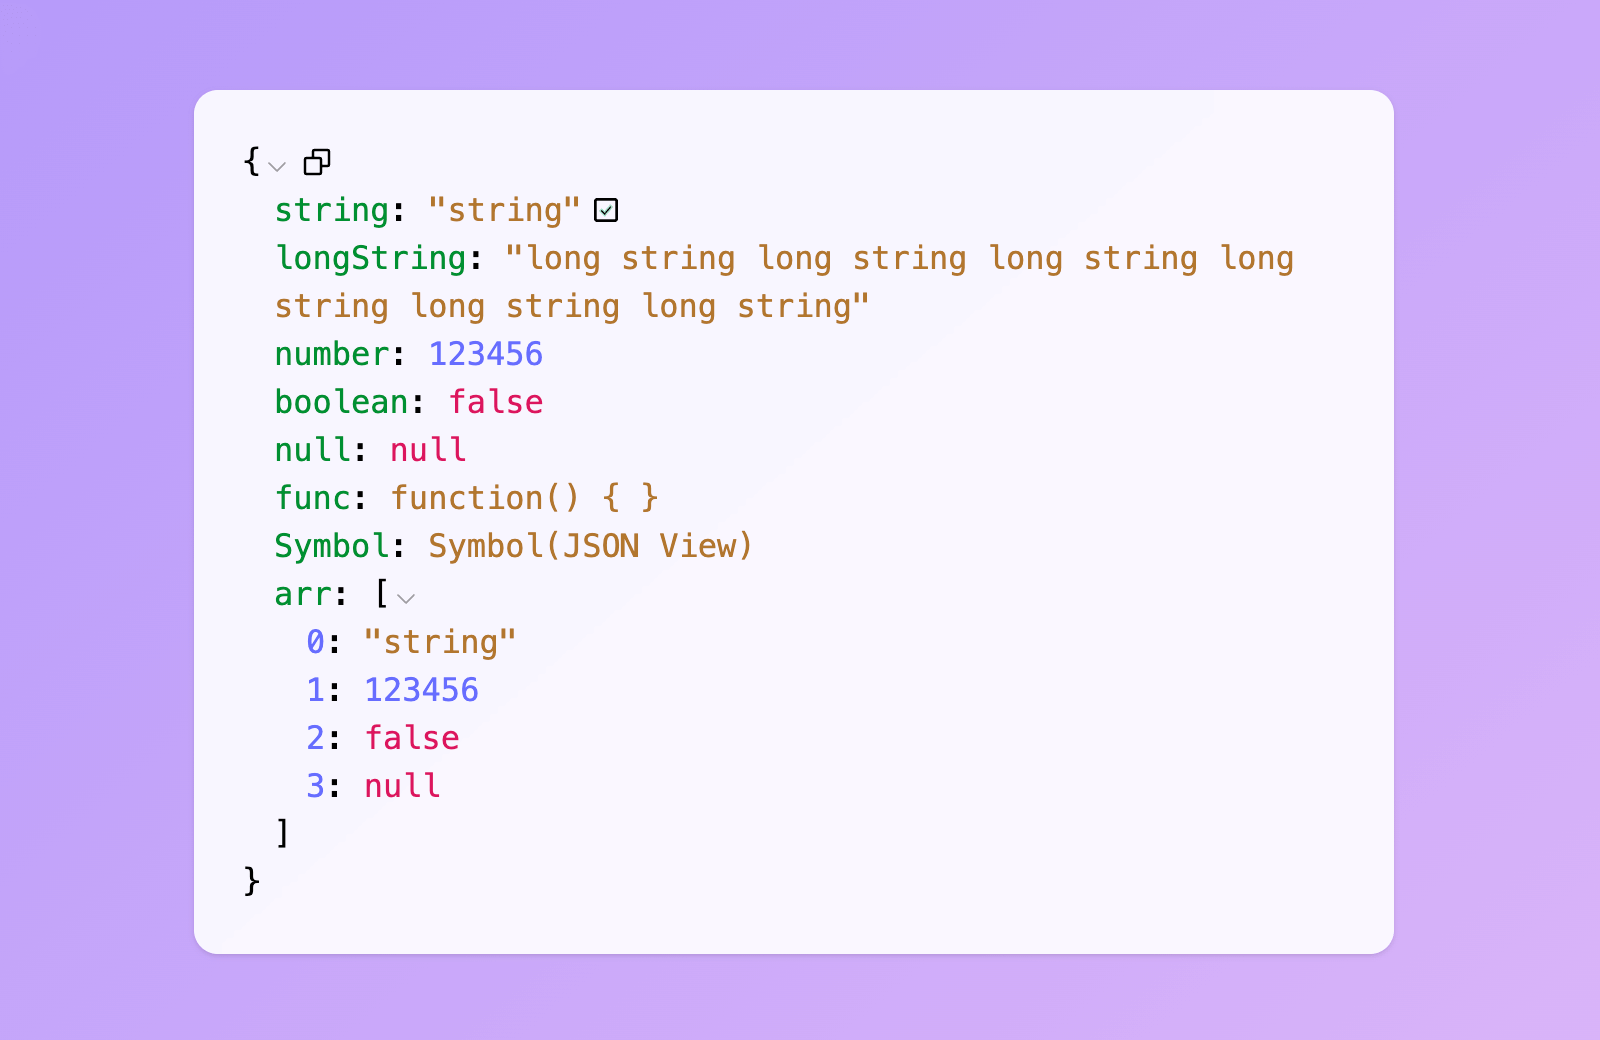
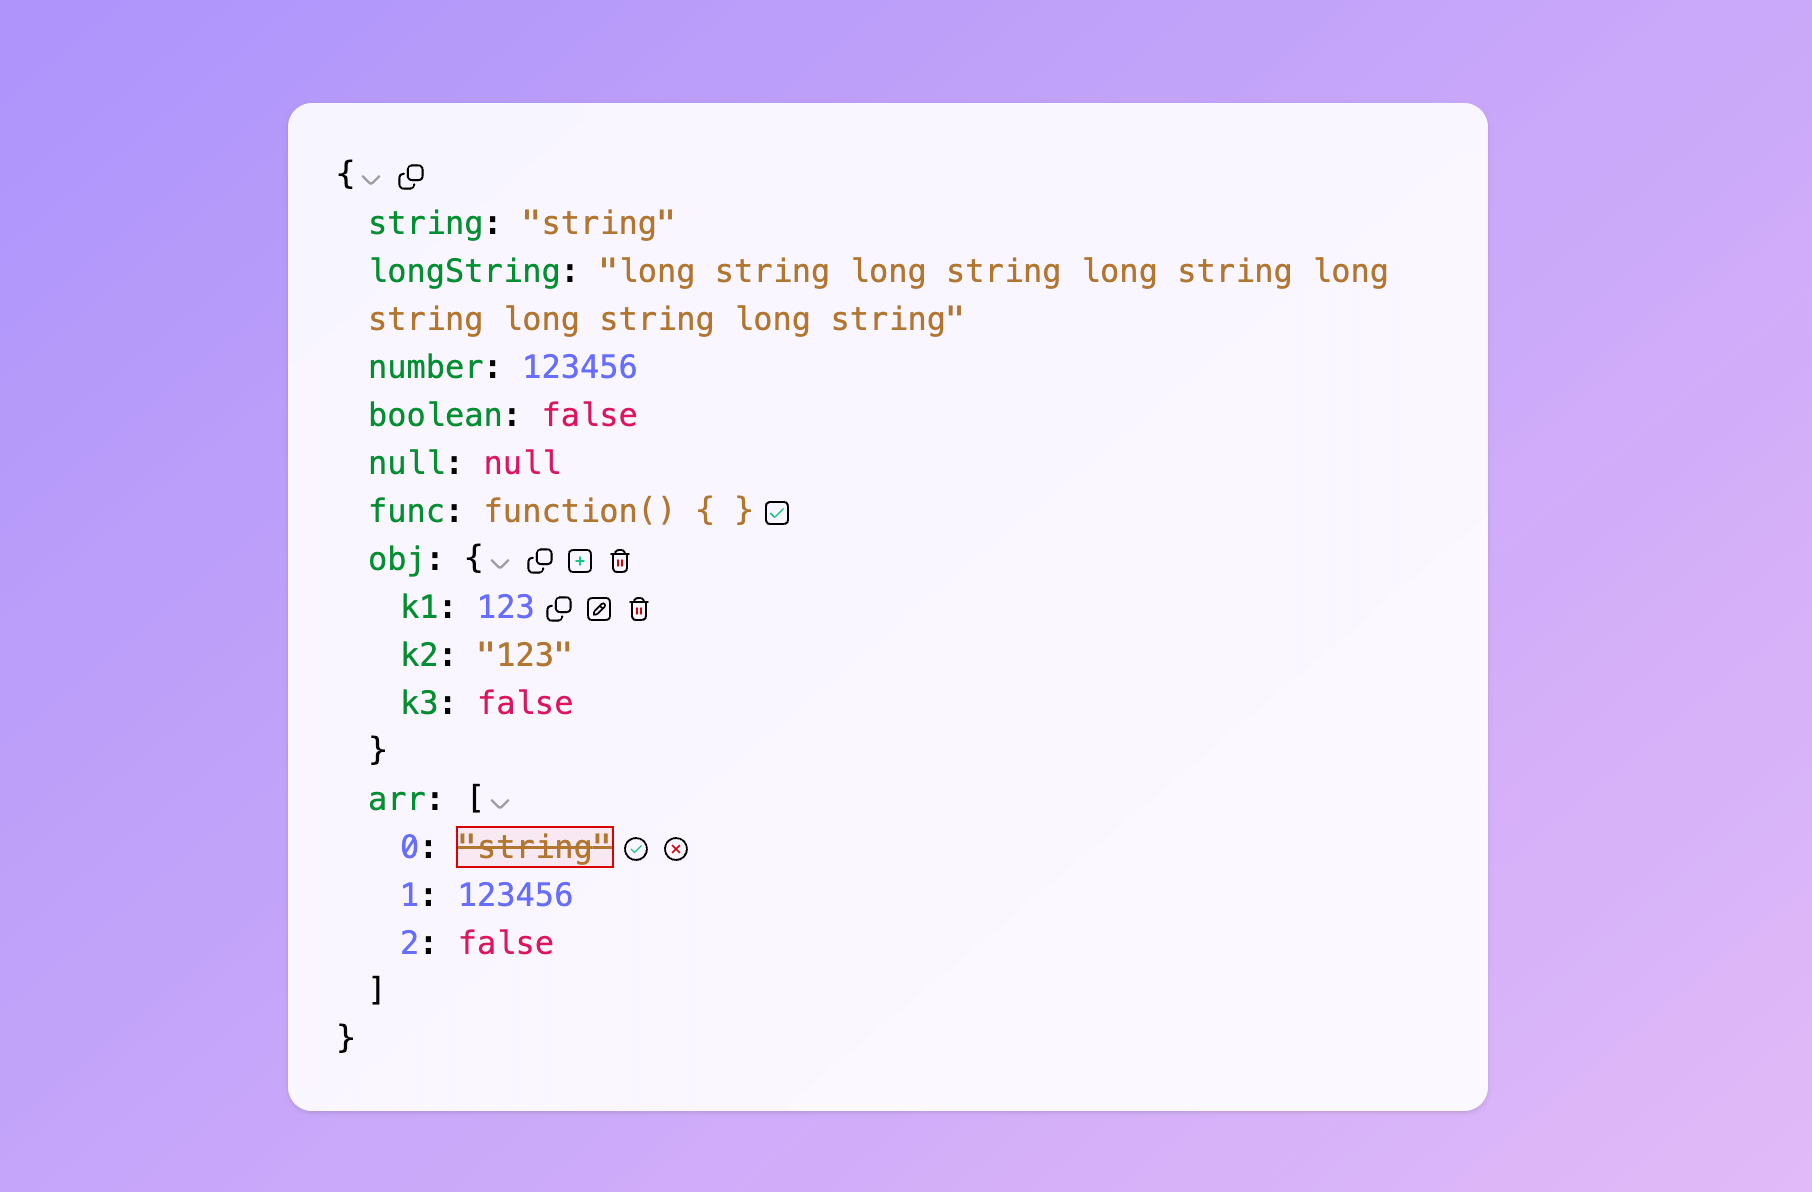
Update docs

Changed region(s): [[0.0938, 0.0615, 0.875, 0.9538], [0.4062, 0.4, 0.4375, 0.4615]]

diff --git a/src/stories/json-view.stories.tsx b/src/stories/json-view.stories.tsx
@@ -15,14 +15,14 @@ export default {
 		collapseStringsAfterLength: {
 			control: 'number',
 			description:
-				'When an integer value is assigned, strings will be cut off at that length. Collapsed strings are inserted by an ellipsis. String content can be expanded and collapsed by clicking on the string value.',
+				'When an integer value is assigned, strings longer than that length will be truncated and indicated by an ellipsis. To expand or collapse the string content, simply click on the string value.',
 			table: {
 				defaultValue: { summary: 99 }
 			}
 		},
 		collapseObjectsAfterLength: {
 			control: 'number',
-			description: 'When an integer value is assigned, the object and array will be collapsed initially.',
+			description: 'When an integer value is assigned, the object and array will initially collapse.',
 			table: {
 				defaultValue: { summary: 20 }
 			}
@@ -36,10 +36,39 @@ export default {
 		},
 		collapsed: {
 			description:
-				'When set to true, all nodes will be collapsed by default. Use an integer value to collapse at a particular depth.',
+				'When set to true, all nodes will be collapsed by default. Use an integer value to collapse at a specific depth.',
 			table: {
 				defaultValue: { summary: false }
 			}
+		},
+		editable: {
+			table: {
+				defaultValue: { summary: false }
+			},
+			description:
+				'When set to true, you can add, edit, or delete the property, and the actions will trigger onAdd, onEdit, or onDelete.'
+		},
+		onAdd: {
+			description: `(params: { indexOrName: string | number, depth: number, src: any; parentType: 'object' | 'array' }) => void`
+		},
+		onDelete: {
+			description: `(params: {
+				value: any,
+				indexOrName: string | number,
+				depth: number,
+				src: any,
+				parentType: 'object' | 'array'
+			}) => void`
+		},
+		onEdit: {
+			description: `(params: {
+				newValue: any,
+				oldValue: any,
+				depth: number,
+				src: any,
+				indexOrName: string | number,
+				parentType: 'object' | 'array'
+			}) => void`
 		}
 	},
 	decorators: [

diff --git a/src/stories/editable.stories.tsx b/src/stories/editable.stories.tsx
@@ -15,14 +15,14 @@ export default {
 		collapseStringsAfterLength: {
 			control: 'number',
 			description:
-				'When an integer value is assigned, strings will be cut off at that length. Collapsed strings are inserted by an ellipsis. String content can be expanded and collapsed by clicking on the string value.',
+				'When an integer value is assigned, strings longer than that length will be truncated and indicated by an ellipsis. To expand or collapse the string content, simply click on the string value.',
 			table: {
 				defaultValue: { summary: 99 }
 			}
 		},
 		collapseObjectsAfterLength: {
 			control: 'number',
-			description: 'When an integer value is assigned, the object and array will be collapsed initially.',
+			description: 'When an integer value is assigned, the object and array will initially collapse.',
 			table: {
 				defaultValue: { summary: 20 }
 			}
@@ -36,10 +36,39 @@ export default {
 		},
 		collapsed: {
 			description:
-				'When set to true, all nodes will be collapsed by default. Use an integer value to collapse at a particular depth.',
+				'When set to true, all nodes will be collapsed by default. Use an integer value to collapse at a specific depth.',
 			table: {
 				defaultValue: { summary: false }
 			}
+		},
+		editable: {
+			table: {
+				defaultValue: { summary: false }
+			},
+			description:
+				'When set to true, you can add, edit, or delete the property, and the actions will trigger onAdd, onEdit, or onDelete.'
+		},
+		onAdd: {
+			description: `(params: { indexOrName: string | number, depth: number, src: any; parentType: 'object' | 'array' }) => void`
+		},
+		onDelete: {
+			description: `(params: {
+				value: any,
+				indexOrName: string | number,
+				depth: number,
+				src: any,
+				parentType: 'object' | 'array',
+			}) => void`
+		},
+		onEdit: {
+			description: `(params: {
+				newValue: any,
+				oldValue: any,
+				depth: number,
+				src: any,
+				indexOrName: string | number,
+				parentType: 'object' | 'array',
+			}) => void`
 		}
 	},
 	args: {

diff --git a/src/style.css b/src/style.css
@@ -28,13 +28,7 @@
 	display: inline-block;
 }
 
-.json-view .json-view--copy {
-	display: none;
-	width: 1em;
-	height: 1em;
-	margin-left: 4px;
-	cursor: pointer;
-}
+.json-view .json-view--copy,
 .json-view .json-view--edit {
 	display: none;
 	width: 1em;
@@ -42,6 +36,7 @@
 	margin-left: 4px;
 	cursor: pointer;
 }
+
 .json-view .json-view--deleting {
 	outline: 1px solid #da0000;
 	background-color: #da000011;

diff --git a/README.md b/README.md
@@ -23,6 +23,8 @@ React function component for displaying javascript arrays and JSON objects.
 ## Installation
 ```bash
 npm i react18-json-view
+# or pnpm i react18-json-view
+# or yarn i react18-json-view
 ```
 
 ## Usage
@@ -34,27 +36,28 @@ import 'react18-json-view/src/style.css'
 ```
 
 ### Props
-Name|Type|Default|Description
-|:---|:---|:---|:---
-`src`|`JSON Object`|None|This property contains your input JSON
-`collapseStringsAfterLength`|`integer`|99|When an integer value is assigned, strings will be cut off at that length. Collapsed strings are inserted by an ellipsis. String content can be expanded and collapsed by clicking on the string value.
-`collapseObjectsAfterLength`|`integer`|20|When an integer value is assigned, the object and array will be collapsed initially.
-`enableClipboard`|`boolean`|true|When prop is not false, the user can copy objects and arrays to clipboard by clicking on the clipboard icon.
-`collapsed`|`boolean`/`integer`|false|When set to true, all nodes will be collapsed by default. Use an integer value to collapse at a particular depth.
+| Name                         | Type                | Default | Description                                                                                                                                                                                    |
+| :--------------------------- | :------------------ | :------ | :--------------------------------------------------------------------------------------------------------------------------------------------------------------------------------------------- |
+| `src`                        | `JSON Object`       | None    | This property contains your input JSON                                                                                                                                                         |
+| `collapseStringsAfterLength` | `integer`           | 99      | When an integer value is assigned, strings longer than that length will be truncated and indicated by an ellipsis. To expand or collapse the string content, simply click on the string value. |
+| `collapseObjectsAfterLength` | `integer`           | 20      | When an integer value is assigned, the object and array will initially collapse.                                                                                                               |
+| `enableClipboard`            | `boolean`           | true    | When `prop` is not `false`, users can copy objects and arrays to the clipboard by clicking on it.                                                                                              |
+| `collapsed`                  | `boolean`/`integer` | false   | When set to true, all nodes will be collapsed by default. Use an integer value to collapse at a specific depth.                                                                                |
+| `editable`                   | `boolean`           | false   | When set to true, you can add, edit, or delete the property, and the actions will trigger onAdd, onEdit, or onDelete.                                                                          |
+| `onAdd`                      | `function`          | -       | `(params: { indexOrName: string\| number, depth: number, src: any; parentType: 'object' \| 'array' }) => void`                                                                                 |
+| `onDelete`                   | `function`          | -       | `(params:{ value: any,indexOrName: string \| number,depth: number,src: any,parentType: 'object' \| 'array'}) => void`                                                                          |
+| `onEdit`                     | `function`          | -       | `(params: { newValue: any, oldValue: any, depth: number,	src: any, indexOrName: string \| number, parentType: 'object' \| 'array'}) => void`                                                   |
 
-## Why
-react-json-view does not support React 18.
+## Editable
 
-## Todo
-- [x] copy (enableClipboard)
-- [x] css
-- [x] collapse at a particular depth (collapsed)
-- [ ] editable
-  - [ ] add
-  - [x] edit
-  - [ ] delete
-  - [ ] onSelect
-- [ ] custom icon
+### How to generate object/array
+
+The editor uses eval(<input-value>). While in edit mode, you can enter ({}) or ([]), which will cause the result of eval to become a new object or array.
+
+### How the editor works
+
+This component does not perform any cloning operations, so every step of the operation is carried out on the original object. If cloning is required, please handle it yourself.
+
 
 ## Custom styles
 Here are all the style codes, you can freely change color variables, such as --json-property, or others.
@@ -67,58 +70,73 @@ Here are all the style codes, you can freely change color variables, such as --j
 	--json-boolean: #dc155e;
 	--json-null: #dc155e;
 }
-.json-view .json-view--property {
-	color: var(--json-property);
-}
-.json-view .json-view--index {
-	color: var(--json-index);
-}
-.json-view .json-view--number {
-	color: var(--json-number);
-}
-.json-view .json-view--string {
-	color: var(--json-string);
-}
-.json-view .json-view--boolean {
-	color: var(--json-boolean);
-}
-.json-view .json-view--null {
-	color: var(--json-null);
-}
-.json-view:hover > .json-view--copy {
-	display: inline-block;
-}
-.json-view .json-view--pair:hover > .json-view--copy {
-	display: inline-block;
-}
-.json-view .json-view--copy {
+.json-view .json-view--property {	color: var(--json-property); }
+.json-view .json-view--index { color: var(--json-index); }
+.json-view .json-view--number {	color: var(--json-number); }
+.json-view .json-view--string {	color: var(--json-string); }
+.json-view .json-view--boolean { color: var(--json-boolean); }
+.json-view .json-view--null {	color: var(--json-null); }
+.json-view:hover > .json-view--copy {	display: inline-block; }
+
+.json-view .json-view--copy,
+.json-view .json-view--edit {
 	display: none;
 	width: 1em;
 	height: 1em;
 	margin-left: 4px;
-	vertical-align: -11%;
 	cursor: pointer;
 }
-
-.json-view .jv-indent {
-	padding-left: 16px;
+.json-view .json-view--deleting {
+	outline: 1px solid #da0000;
+	background-color: #da000011;
+	text-decoration-line: line-through;
 }
+.json-view .json-view--input {
+	width: 120px;
+	margin-left: 4px;
+	border-radius: 4px;
+	border: 1px solid currentColor;
+	padding: 0px 4px;
+	font-size: 87.5%;
+	line-height: 1.25;
+	background: transparent;
+}
+
+.json-view .json-view--pair:hover > .json-view--copy,
+.json-view .json-view--pair:hover > .json-view--edit {
+	display: inline-block;
+}
+
+.json-view .jv-indent {	padding-left: 16px; }
 .json-view .jv-chevron {
 	display: inline-block;
 	vertical-align: -20%;
 	cursor: pointer;
 	opacity: 0.4;
+	width: 1em;
+	height: 1em;
 }
-.json-view .jv-chevron:hover {
-	opacity: 0.8;
-}
+.json-view .jv-chevron:hover {	opacity: 0.8;}
 .json-view .jv-button {
 	background: transparent;
 	outline: none;
 	border: none;
 	cursor: pointer;
 }
-.json-view .cursor-pointer {
-	cursor: pointer;
-}
+.json-view .cursor-pointer { cursor: pointer; }
+
 ```
+
+## Why
+react-json-view does not support React 18.
+
+## Todo
+- [x] copy (enableClipboard)
+- [x] css
+- [x] collapse at a particular depth (collapsed)
+- [x] editable
+  - [x] add
+  - [x] edit
+  - [x] delete
+  - [ ] onSelect
+- [ ] custom icon
